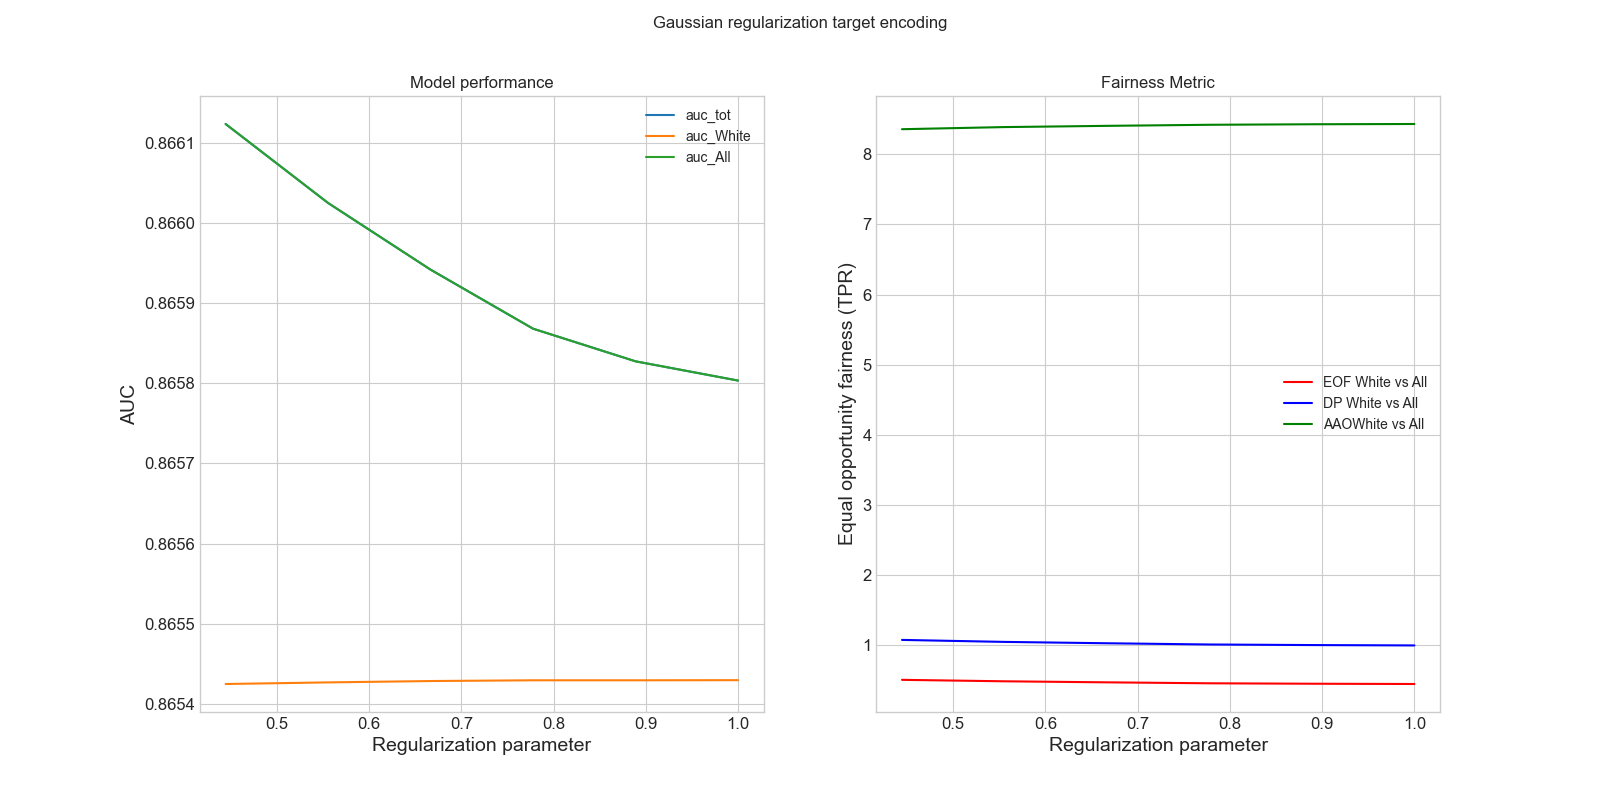
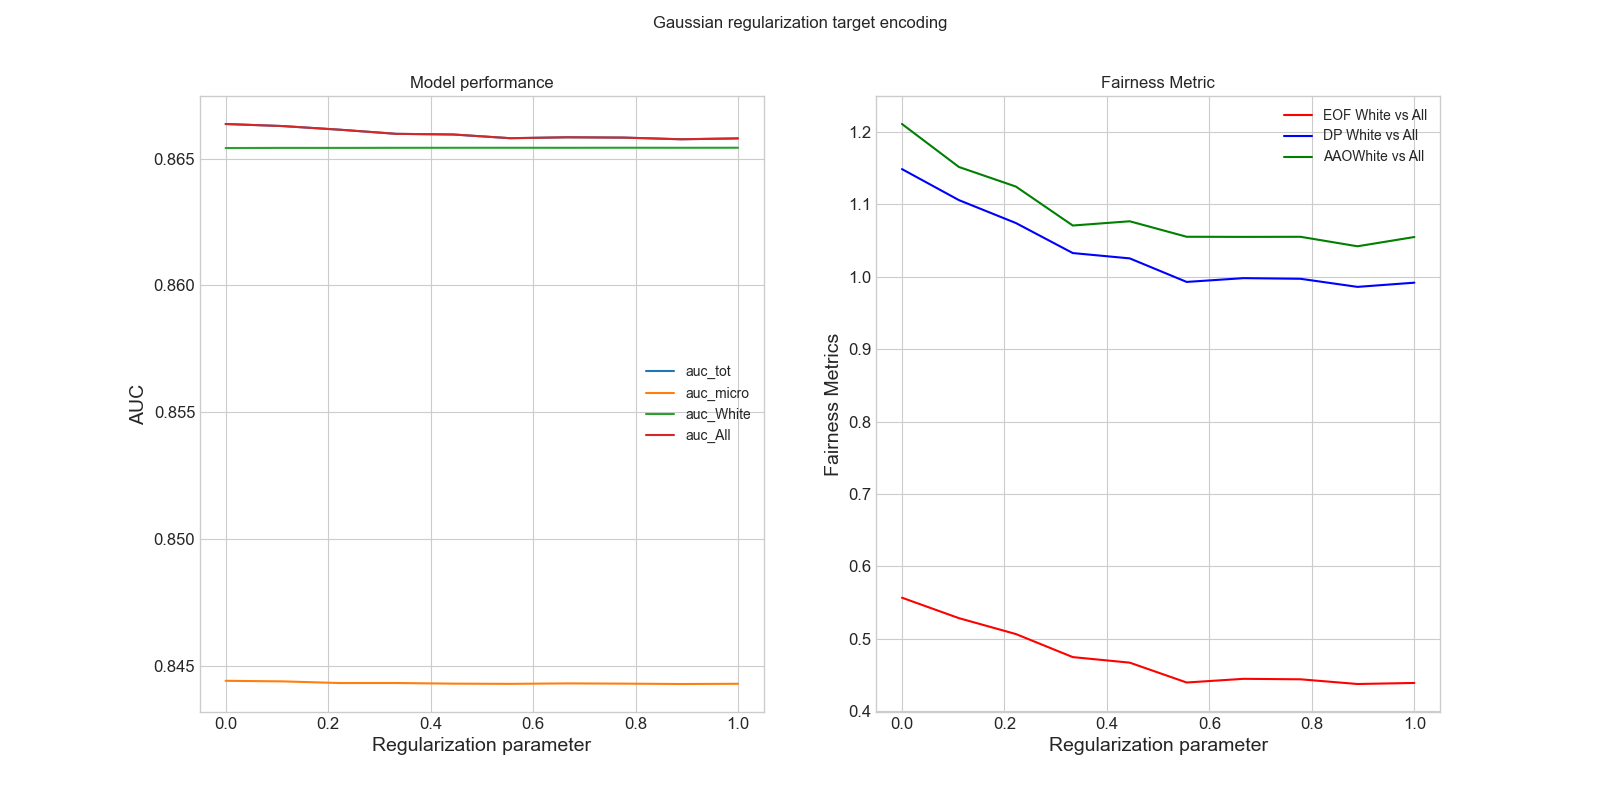
figure 3 fixed

diff --git a/FolksEncoding.py b/FolksEncoding.py
@@ -304,7 +304,6 @@ metric_calculator(
     col="group",
     reference_group="White",
     compared_group="All",
-    normalize=True,
 )
 # %%
 res = {}
@@ -408,7 +407,6 @@ def fair_encoder(model, param: list, enc: str = "mestimate", drop_cols: list = [
             )
         )
         auc = auc_group(model=pipe, data=X_te, y_true=y_te, dicc=auc, group=COL)
-        pdb.set_trace()
         auc_tot.append(roc_auc_score(y_te, pipe.predict_proba(X_te)[:, 1]))
 
     # Results formatting
@@ -420,12 +418,9 @@ def fair_encoder(model, param: list, enc: str = "mestimate", drop_cols: list = [
     res["aao"] = res["fairness_metric"].apply(lambda x: x[2])
     res = res.drop(columns="fairness_metric")
 
-    ## Scale metrics for viz purposes
-    sc = MinMaxScaler()
-    # res["eof"] = res["eof"] / res["eof"].mean()
-    # res["dp"] = res["dp"] / res["dp"].mean()
-    # res["aao"] = res["aao"] / res["aao"].mean()
-    res["auc_tot"] = auc_tot
+    ## AUC
+    res["auc_tot"] = auc_tot  # Macro
+    res["auc_micro"] = pd.DataFrame(auc, index=param).drop(columns=["all"]).mean(axis=1)
     res["auc_" + GROUP1] = auc[GROUP1]
     try:
         res["auc_" + GROUP2] = auc[GROUP2]
@@ -443,7 +438,6 @@ GROUP1 = "White"
 GROUP2 = "All"
 # Lenght of the linspace
 POINTS = 10
-
 # %%
 ## LR Experiment
 no_encoding = fair_encoder(
@@ -638,7 +632,6 @@ fig.savefig("images/encTheory.png")
 fig.show()
 # %%
 # %%
-##################
 ### Figure 2 #####
 ##################
 """
@@ -647,7 +640,8 @@ This figure shows the effect of the smoothing regularizer on the AUC of the mode
 fig, axs = plt.subplots(1, 2, sharex=True)
 
 fig.suptitle("Gaussian regularization target encoding")
-aux = gaus1.drop(columns=["dp", "aao", "eof"]).rolling(5).mean().dropna()
+aux = gaus1.drop(columns=["dp", "aao", "eof"])  # .rolling(5).mean().dropna()
+
 for col in aux.columns:
     axs[0].plot(aux[col], label=col)
     # plt.fill_between(aux.index,(aux[col] - stand[col]),(aux[col] + stand[col]),# color="b",alpha=0.1,)
@@ -656,7 +650,7 @@ axs[0].set_title("Model performance")
 axs[0].set_ylabel("AUC")
 axs[0].set_xlabel("Regularization parameter")
 
-aux = gaus1[["eof", "dp", "aao"]].rolling(5).mean().dropna()
+aux = gaus1[["eof", "dp", "aao"]]  # .rolling(5).mean().dropna()
 
 axs[1].plot(aux["eof"], label="EOF " + GROUP1 + " vs " + GROUP2, color="r")
 axs[1].plot(aux["dp"], label="DP " + GROUP1 + " vs " + GROUP2, color="b")
@@ -668,11 +662,12 @@ axs[1].set_ylabel("Fairness Metrics")
 axs[1].set_xlabel("Regularization parameter")
 plt.savefig("images/compassHyperGaussian.png")
 plt.show()
-# In[35]:
+### Figure 3 #####
+##################
 fig, axs = plt.subplots(1, 2, sharex=True)
 
 fig.suptitle("Smoothing regularization target encoding")
-aux = smooth1[["auc_tot", "auc_White", "auc_Asian"]].rolling(5).mean().dropna()
+aux = smooth1[["auc_tot", "auc_micro"]]  # .rolling(5).mean().dropna()
 
 
 for col in aux.columns:
@@ -683,9 +678,10 @@ axs[0].set_title("Model performance")
 axs[0].set_ylabel("AUC")
 axs[0].set_xlabel("Regularization parameter")
 
-aux = smooth1[["dp"]].rolling(5).mean().dropna()
-
-axs[1].plot(aux["dp"], label=GROUP1 + " vs " + GROUP2, color="r")
+aux = smooth1[["dp", "eof", "aao"]]  # .rolling(5).mean().dropna()
+axs[1].plot(aux["eof"], label="EOF " + GROUP1 + " vs " + GROUP2, color="r")
+axs[1].plot(aux["dp"], label="DP " + GROUP1 + " vs " + GROUP2, color="b")
+axs[1].plot(aux["aao"], label="AAO" + GROUP1 + " vs " + GROUP2, color="g")
 
 axs[1].legend()
 axs[1].set_title("Fairness Metrics")
@@ -696,8 +692,7 @@ plt.show()
 
 
 # %%
-##################
-### Figure 3 #####
+### Figure 4 #####
 ##################
 """
 3 Models are trained with different regularization parameters

diff --git a/fairtools/utils.py b/fairtools/utils.py
@@ -12,6 +12,7 @@ def fit_predict(modelo, enc, data, target, test):
     pipe.fit(data, target)
     return pipe.predict(test)
 
+
 def explain(xgb: bool = True):
     """
     Provide a SHAP explanation by fitting MEstimate and GBDT
